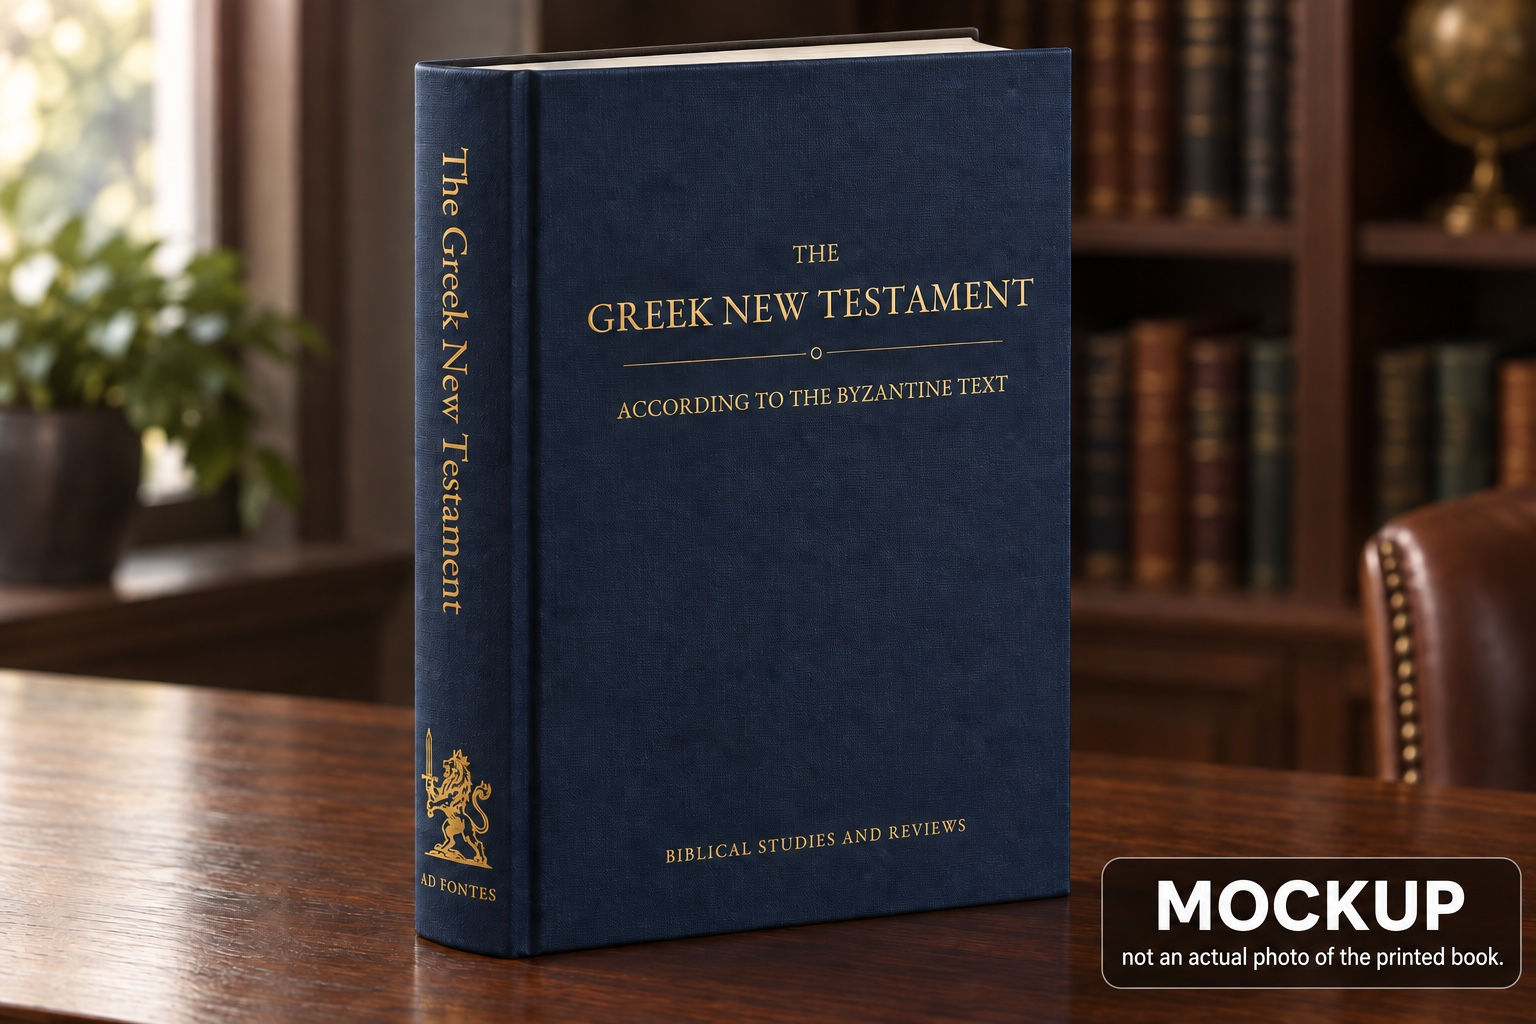
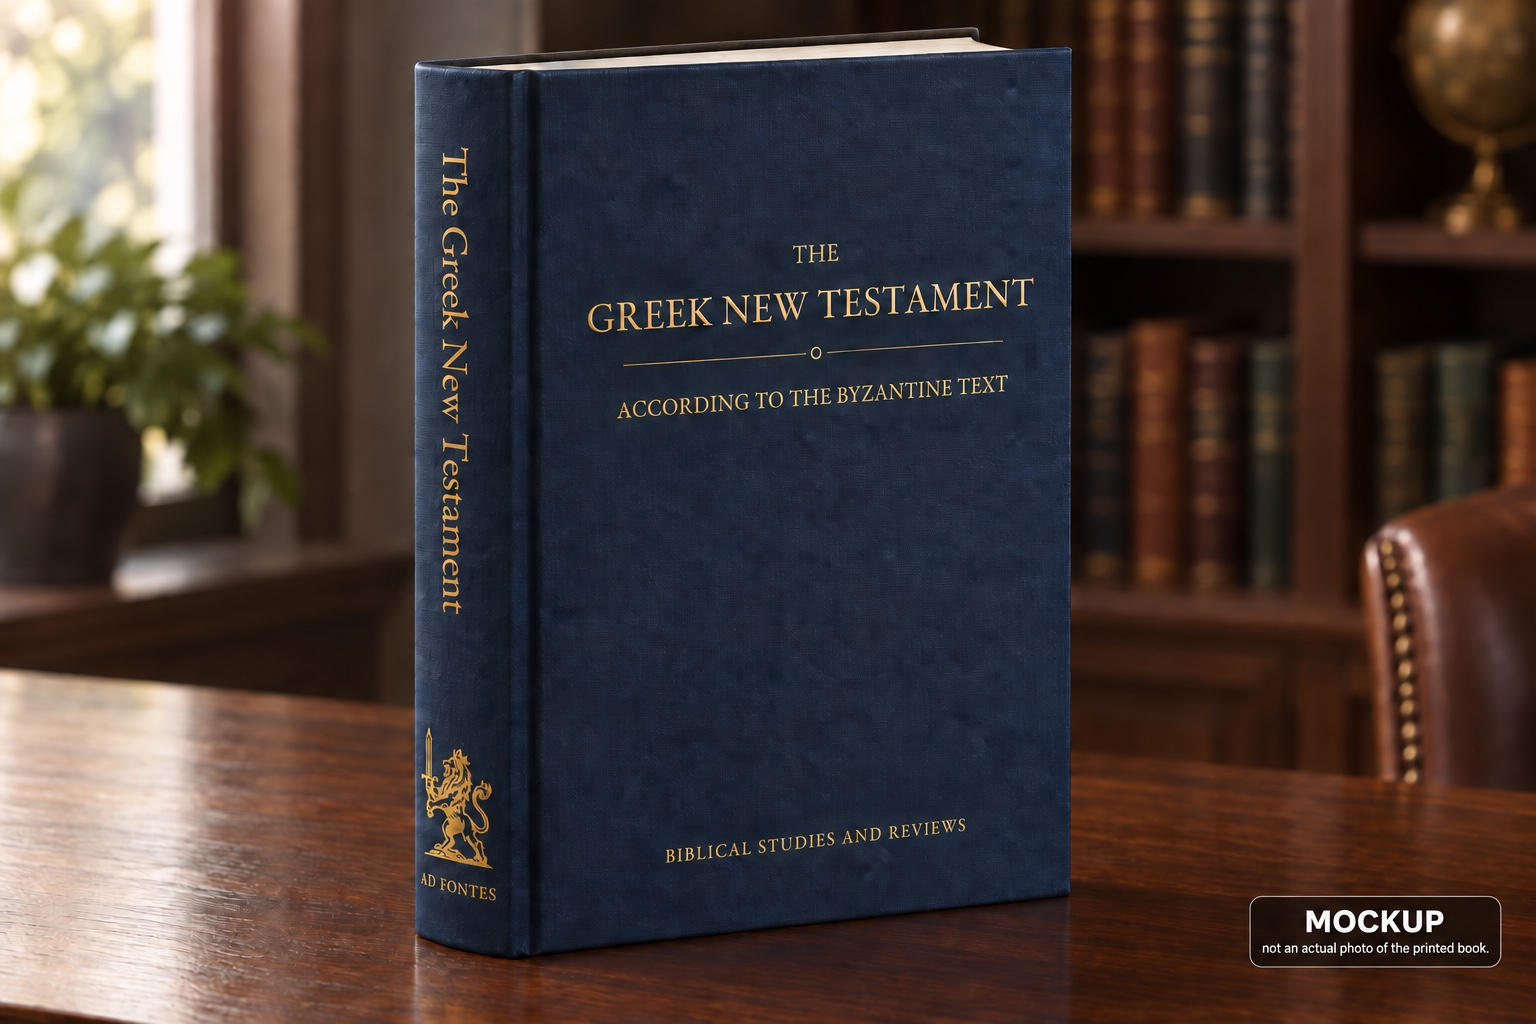
Refine mockup disclosure prominence

diff --git a/hardbound-gnt.html b/hardbound-gnt.html
@@ -320,7 +320,7 @@
     <h1>Hardbound Greek New Testament</h1>
     <p class="tagline">Printing update, specs, and a waitlist for when more copies become available.</p>
     <figure class="book-hero">
-      <img src="/assets/greek-new-testament-hardbound-mockup.jpg?v=20260924-2" alt="Mockup of The Greek New Testament According to the Byzantine Text, shown as a dark navy clothbound hardcover with gold foil lettering" width="1536" height="1024" fetchpriority="high">
+      <img src="/assets/greek-new-testament-hardbound-mockup.jpg?v=20260924-3" alt="Mockup of The Greek New Testament According to the Byzantine Text, shown as a dark navy clothbound hardcover with gold foil lettering" width="1536" height="1024" fetchpriority="high">
       <figcaption>Design mockup shown for scale and appearance; the finished printed book may vary slightly.</figcaption>
     </figure>
   </div>

diff --git a/index.html b/index.html
@@ -575,7 +575,7 @@
     <div class="resource-list">
       <div class="resource-card gnt-feature">
         <a class="gnt-mockup-link" href="/hardbound-gnt.html" aria-label="See the hardbound Greek New Testament printing details and waitlist">
-          <img class="gnt-mockup" src="/assets/greek-new-testament-hardbound-mockup.jpg?v=20260924-2" alt="Mockup of the dark navy hardbound Greek New Testament with gold foil lettering" width="1536" height="1024" loading="lazy">
+          <img class="gnt-mockup" src="/assets/greek-new-testament-hardbound-mockup.jpg?v=20260924-3" alt="Mockup of the dark navy hardbound Greek New Testament with gold foil lettering" width="1536" height="1024" loading="lazy">
         </a>
         <div class="gnt-copy">
           <h3>Greek New Testament resources</h3>
